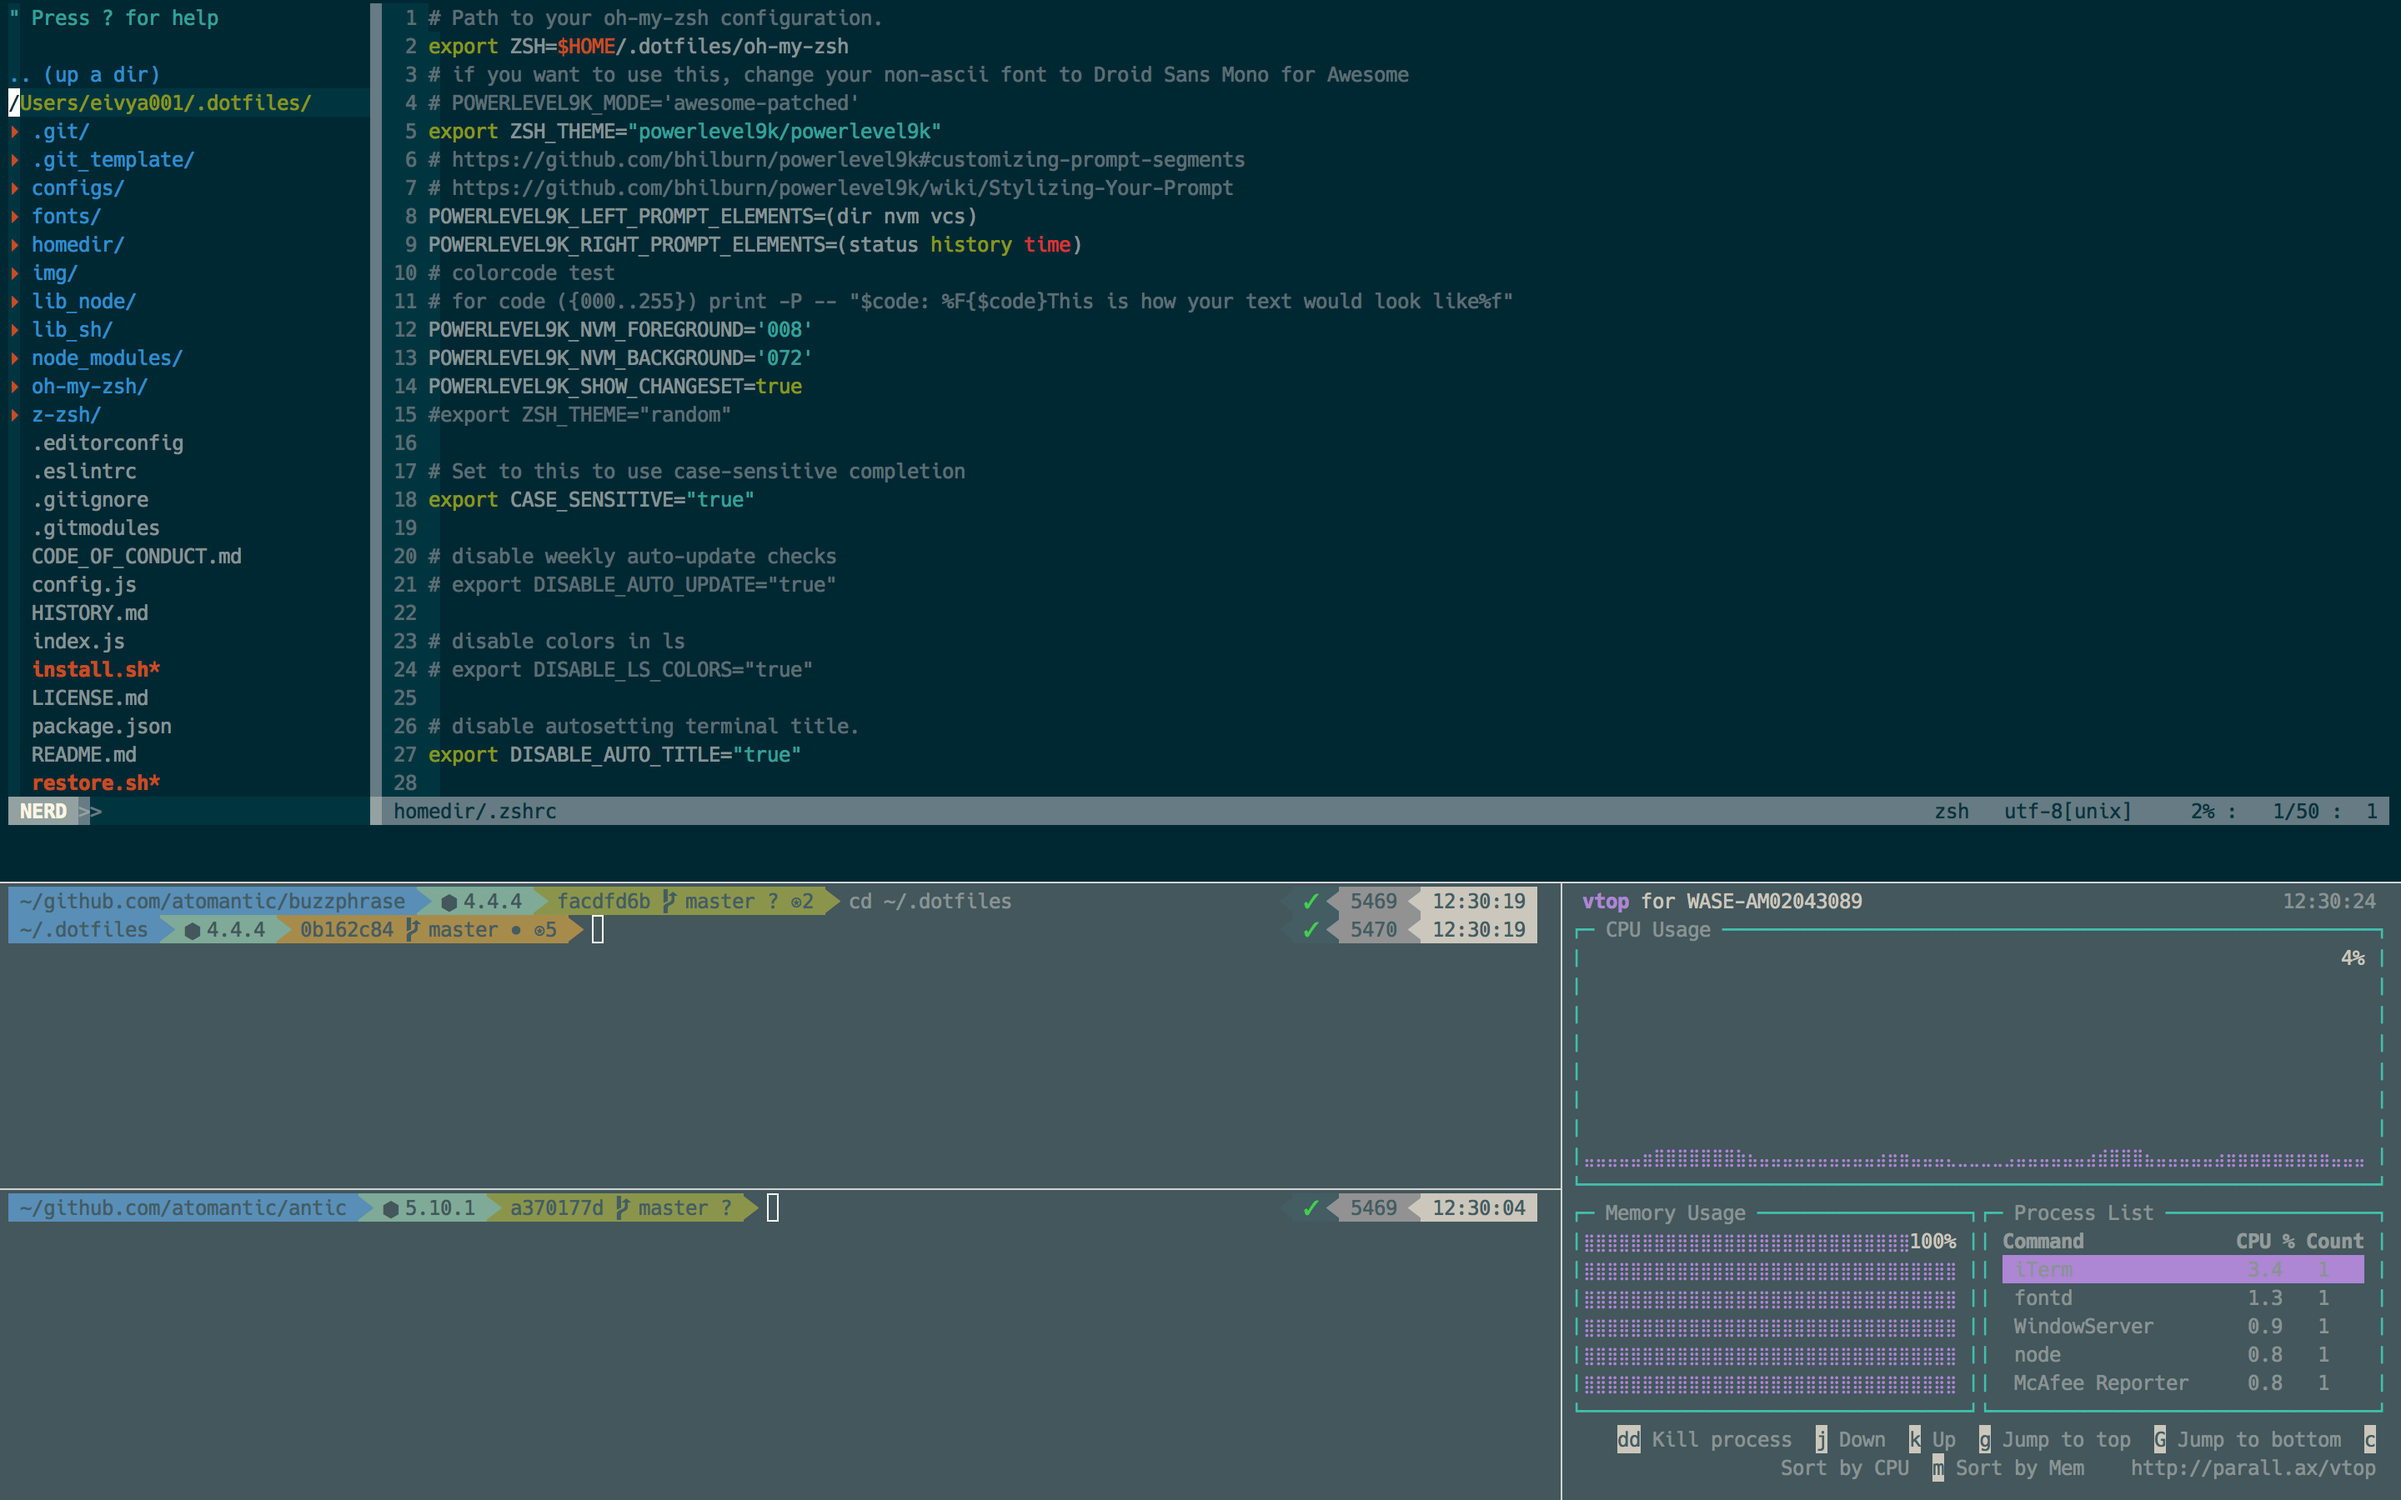
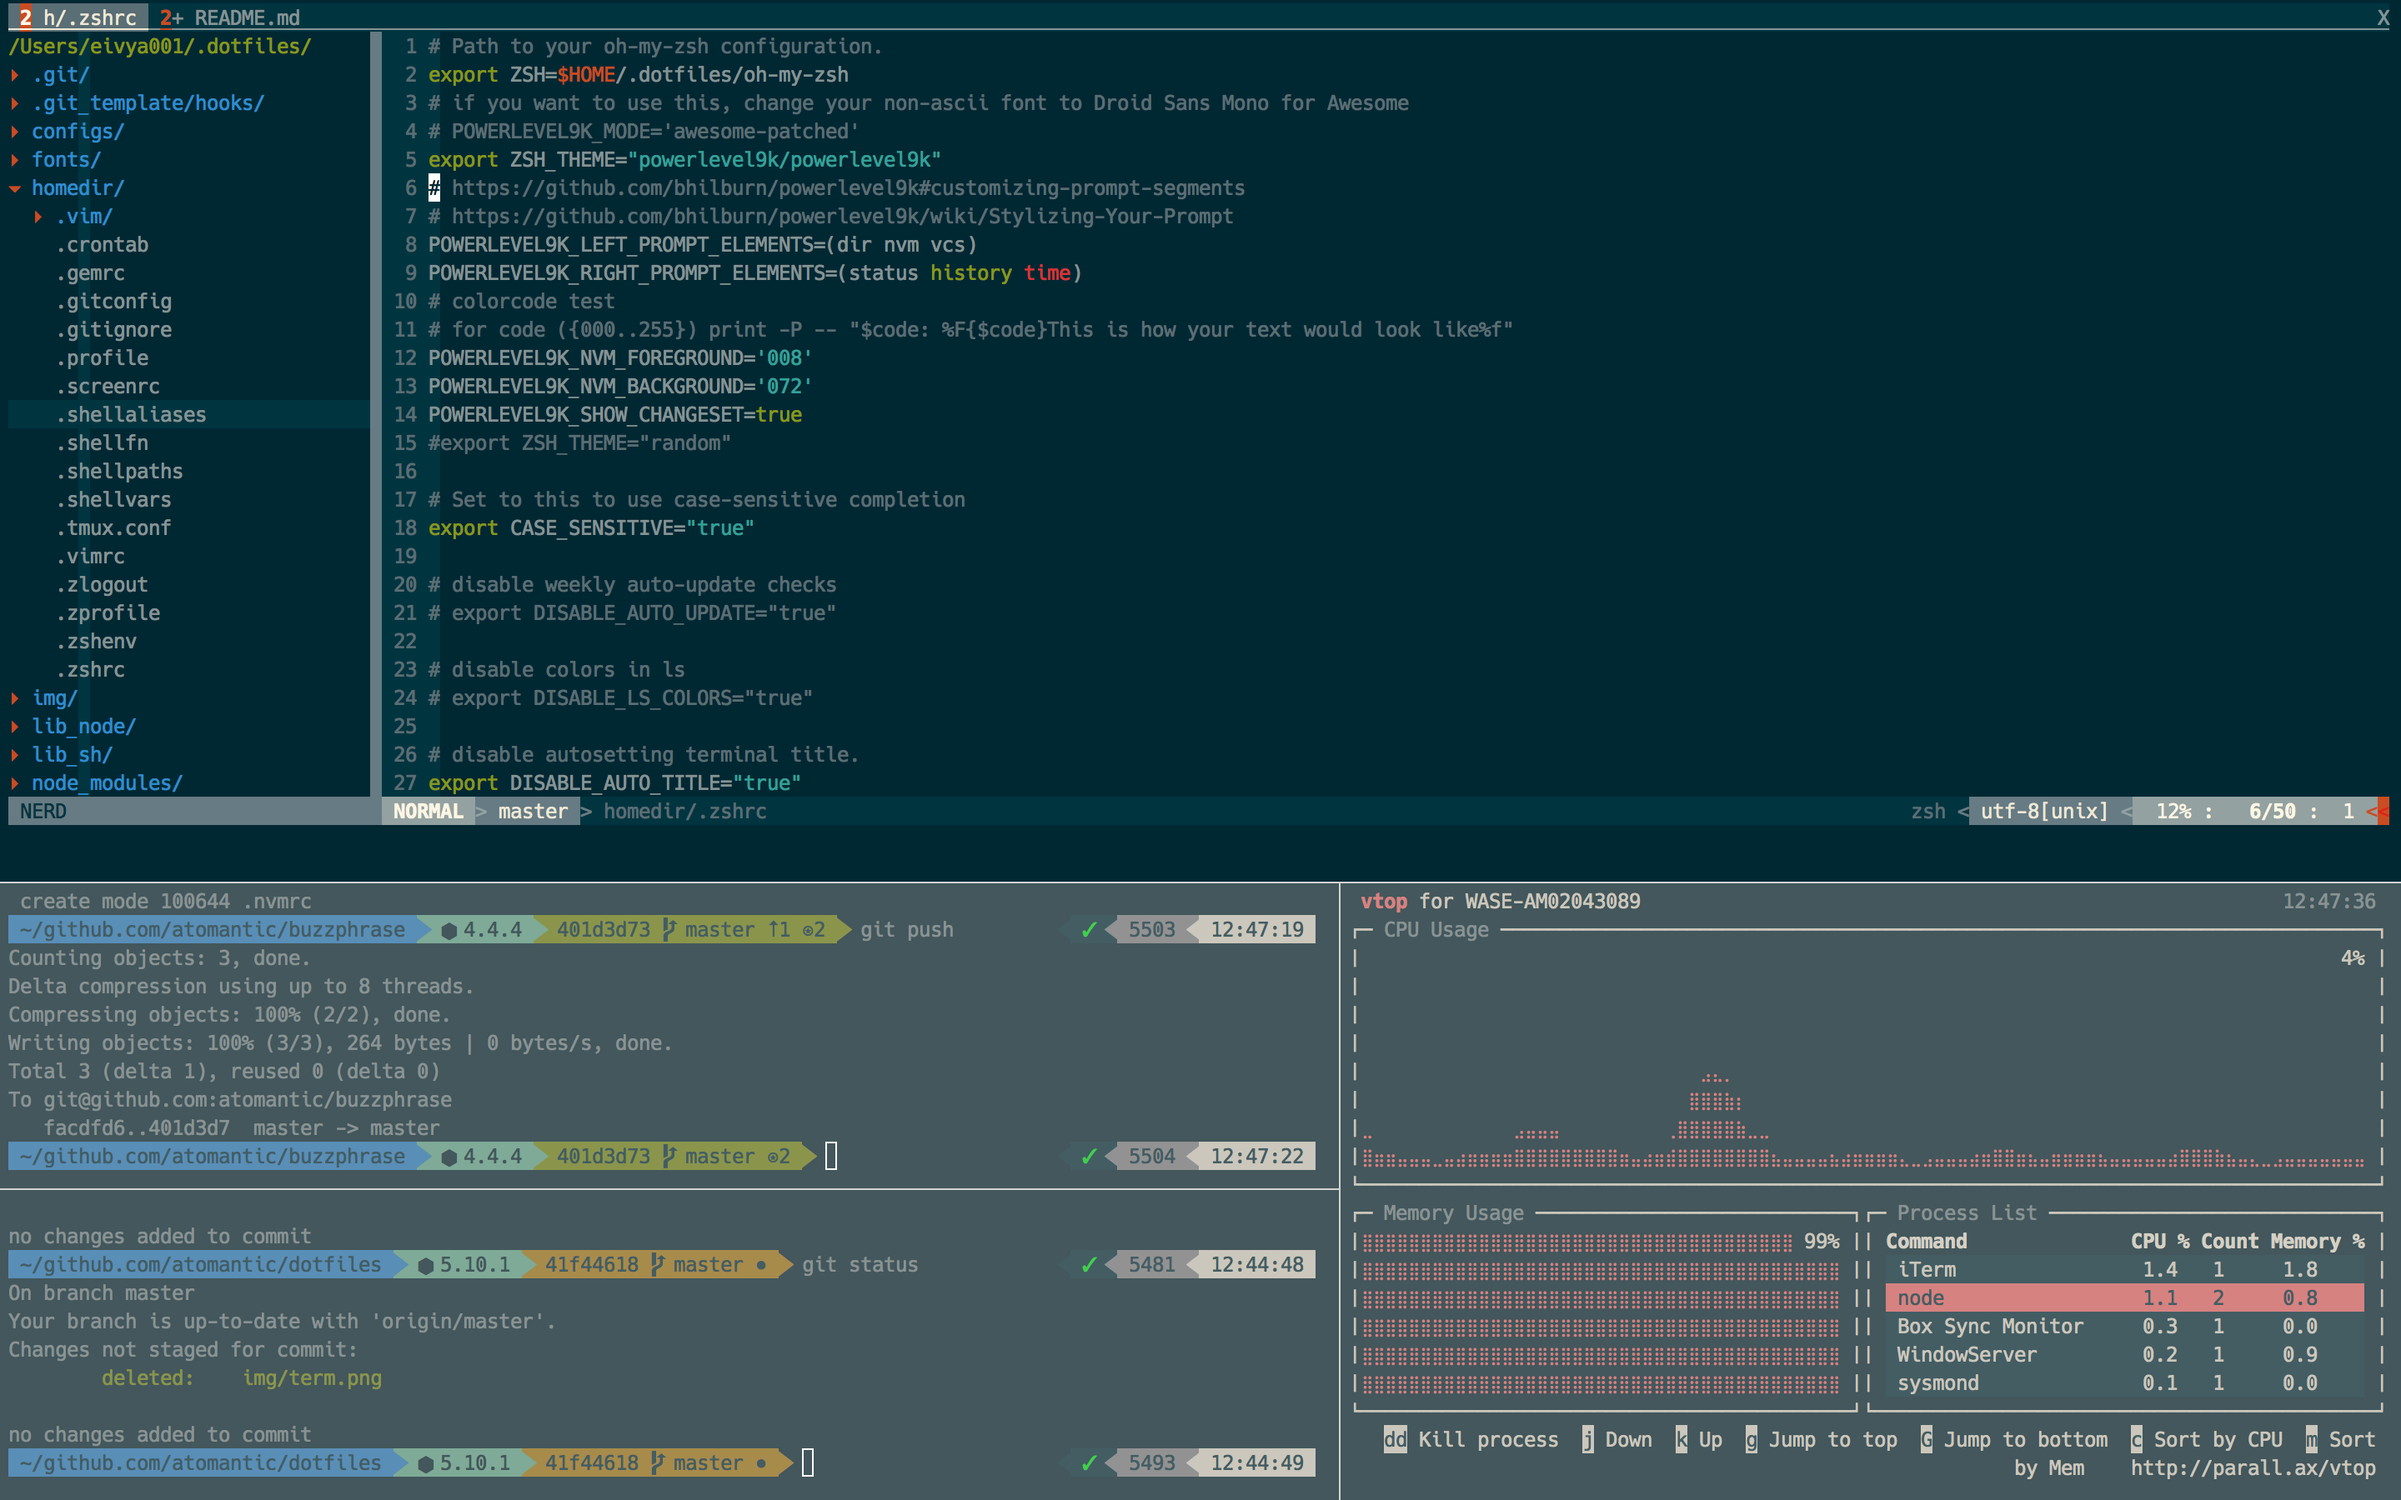
adding vtop alias with theme and new term image

diff --git a/README.md b/README.md
@@ -72,9 +72,10 @@ When I finish with your machine, you will be able to look at your command-line i
 
 ![iTerm Screenshot](https://raw.githubusercontent.com/atomantic/dotfiles/master/img/term.png)
 
-Check out how your shell prompt includes the full path & the working git branch!
+Check out how your shell prompt includes the full path, node.js version & the working git branch along with a lot of other info!
+We use powerlevel9k for command prompt, so customization of what you want is easily changable in `./.zshrc`
 The top terminal is using vim + NerdTree as a full Atom replacement IDE.
-The bottom left is a git terminal.
+The bottom left two are git terminals.
 The bottom right is running `vtop`
 
 To launch fullscreen, hit `Command + Enter` in iTerm, then use `Command + d` and `Command + D` to create split panes.
